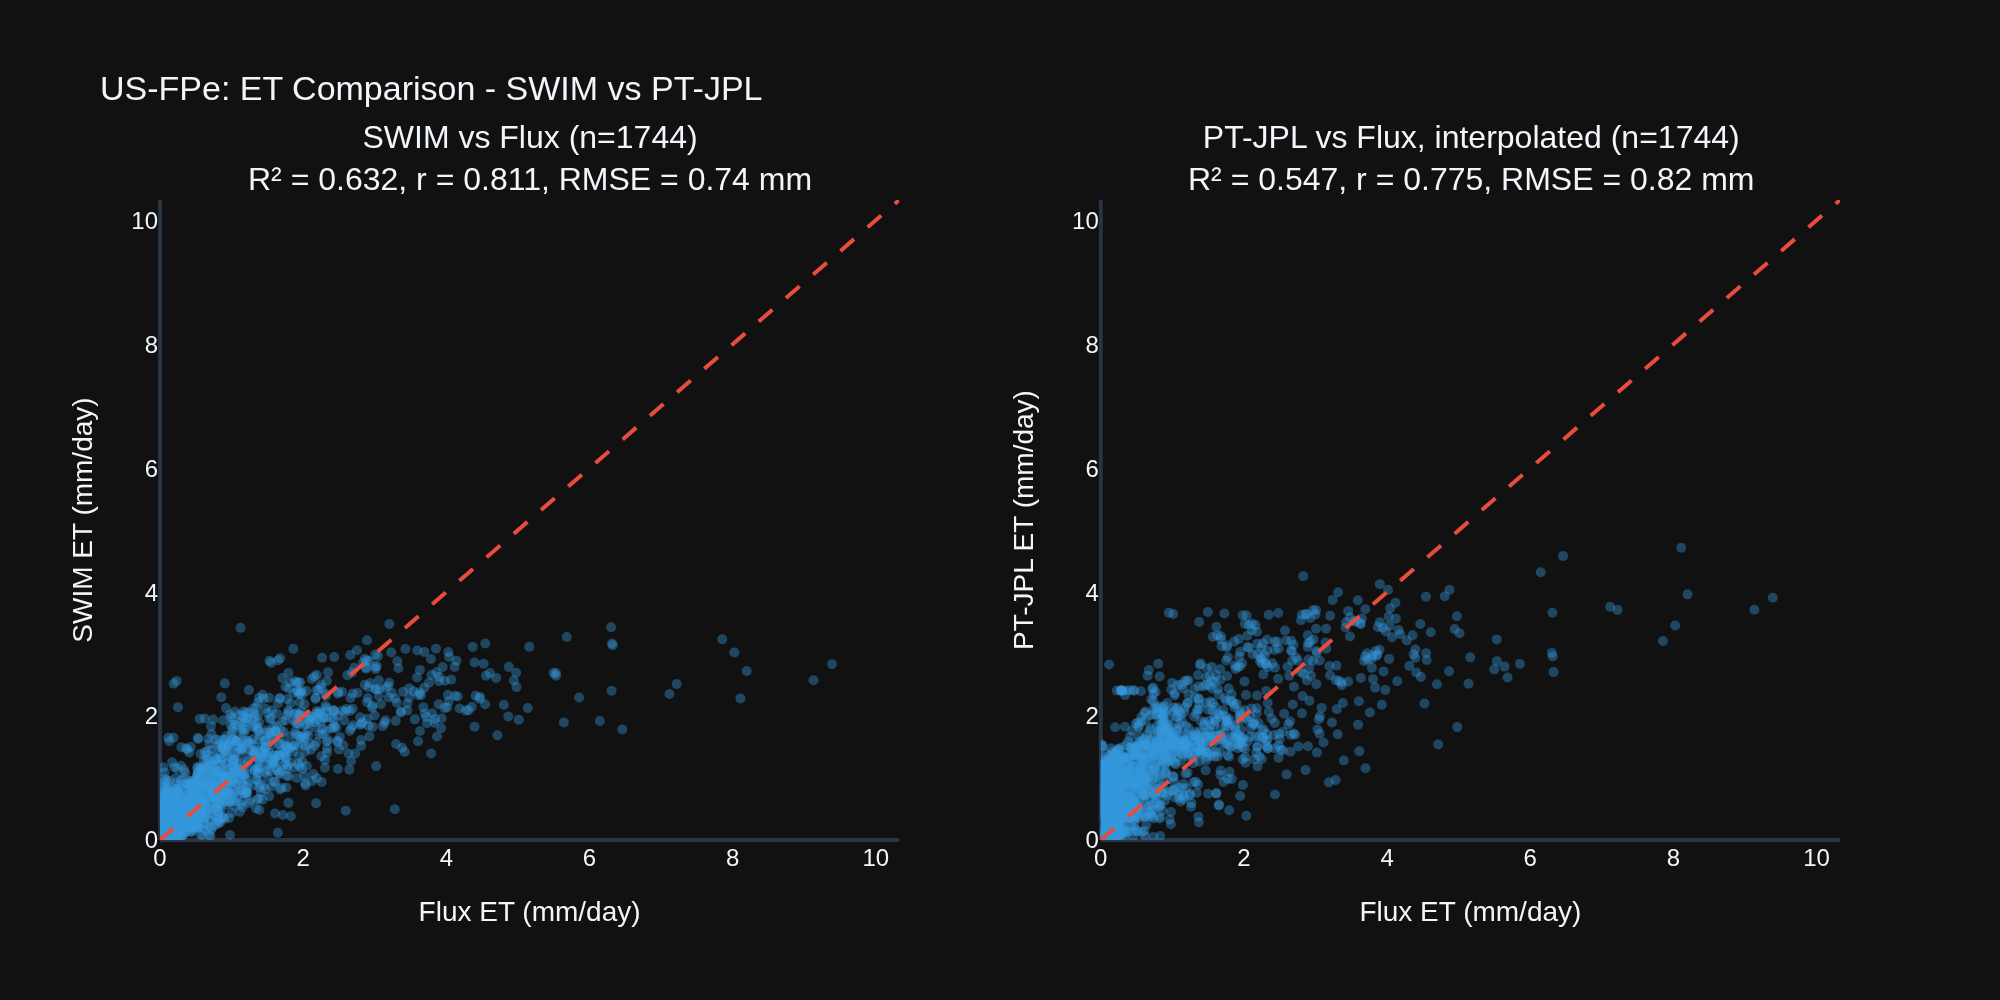
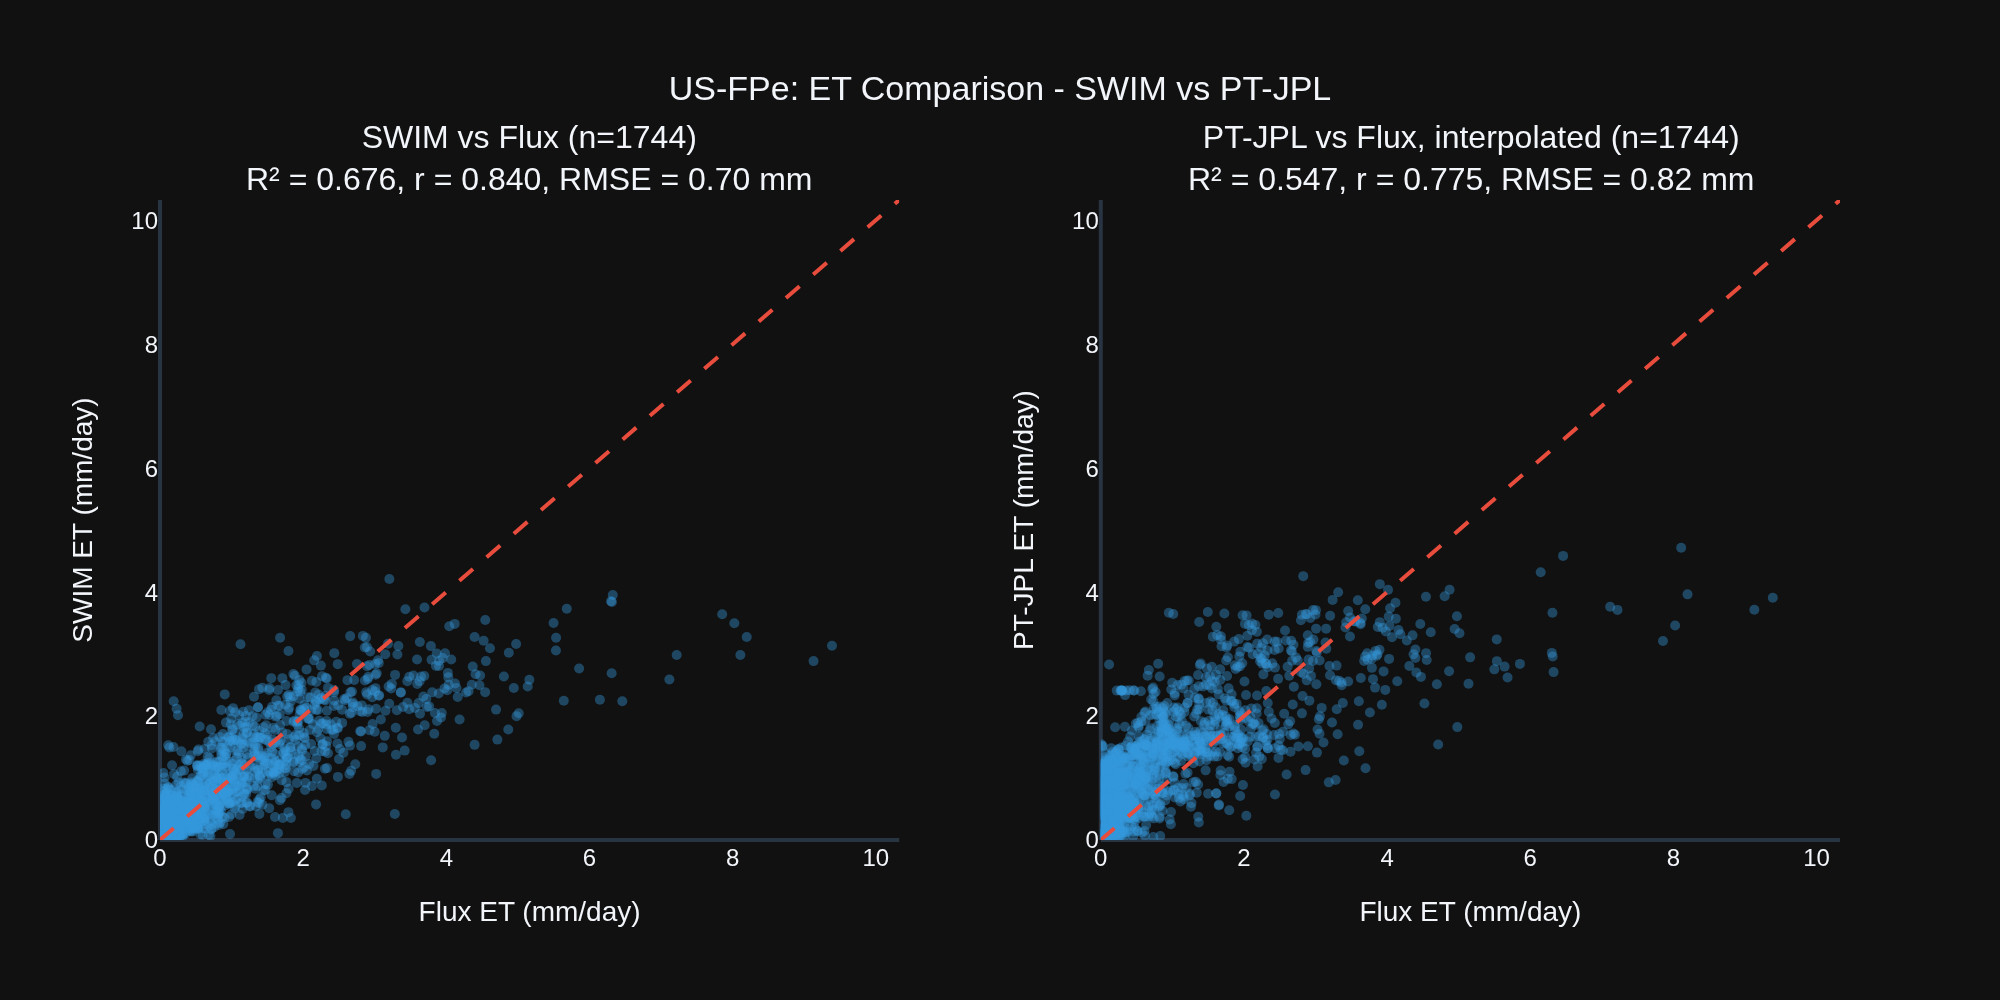
Update README.md and docs with new fig, Python version, etc.

diff --git a/README.md b/README.md
@@ -1,5 +1,8 @@
 # SWIM-RS
 
+[![CI](https://github.com/dgketchum/swim-rs/actions/workflows/ci.yml/badge.svg)](https://github.com/dgketchum/swim-rs/actions/workflows/ci.yml)
+[![Coverage](https://codecov.io/gh/dgketchum/swim-rs/branch/main/graph/badge.svg)](https://codecov.io/gh/dgketchum/swim-rs)
+
 **S**oil **W**ater balance **I**nverse **M**odeling using **R**emote **S**ensing
 
 SWIM-RS combines the desirable qualities of remote sensing and hydrological modeling into an easy-to-use, rigorous
@@ -10,7 +13,7 @@ packaged into easy-to-manage containers with provenance and coverage checks.
 The process engine uses numba-accelerated FAO-56 kernels; calibration is field-level via PEST++ IES (ensemble ETf optional). 
 A 40-year run on a single field completes in under a second; shipped examples run end-to-end with a few commands.
 
-**Modern workflow (container-first)**
+**The Workflow**
 
 ```
 swim extract (EE + met) → swim prep (build .swim container) → build_swim_input (HDF5) → run_daily_loop / calibrate
@@ -29,12 +32,24 @@ flowchart LR
 
 See the [Installation Guide](docs/installation.md) for detailed setup instructions including conda, PEST++, and Earth Engine authentication.
 
-**Quick install** (assumes conda and Python 3.11+):
+**Quick install** (assumes conda and Python 3.13):
 ```bash
-conda create -n swim python=3.11 -y && conda activate swim
+conda create -n swim python=3.13 -y && conda activate swim
 conda install -c conda-forge pestpp geopandas rasterio -y
 pip install git+https://github.com/dgketchum/swim-rs.git
 ```
+
+## Testing
+
+```bash
+pip install -e ".[dev]"
+pytest
+
+# Coverage (line + branch)
+pytest --cov=swimrs --cov-branch --cov-report=term-missing
+```
+
+By default, tests requiring Earth Engine auth are skipped; run them with `pytest --run-ee`.
 
 ## Quick start (Fort Peck, Montana)
 
@@ -67,9 +82,9 @@ Outputs:
 <img src="https://raw.githubusercontent.com/dgketchum/swim-rs/reform-data-container/docs/images/US-FPe_scatter.png" alt="SWIM vs PT-JPL comparison" width="600">
 <!--/img-placeholder-->
 
-SWIM-RS uses remote sensing ET to calibrate a process-based model rather than drive it directly — the result is daily ET 
-estimates that outperform the satellite retrievals they were trained on. Here, SWIM-RS, *itself calibrated on PT-JPL*, achieves 
-R² = 0.63 vs PT-JPL's 0.55 against flux tower observations, a 10% improvement in the estimate of water use.
+SWIM-RS uses remote sensing ET to calibrate a process-based model rather than drive it directly — the result is daily ET
+estimates that outperform the satellite retrievals they were trained on. Here, SWIM-RS, *itself calibrated on PT-JPL*, achieves
+R² = 0.68 vs PT-JPL's 0.55 against flux tower observations, a 24% improvement in explained variance.
 
 Further, we automatically get estimates of snow accumulation and melt, groundwater recharge, runoff, and consumption of 
 irrigation-applied water (in cases where irrigation is detected, see Example 3 - Crane, OR).

diff --git a/docs/installation.md b/docs/installation.md
@@ -4,7 +4,7 @@ This guide walks through setting up SWIM-RS from scratch, including dependencies
 
 ## Prerequisites
 
-- **Python 3.11+** (required)
+- **Python 3.13** (required)
 - **conda** (recommended; see [Non-Conda Installation](#non-conda-installation) below for alternatives)
 - **Git** (for installing from source)
 
@@ -71,7 +71,7 @@ After installation:
 Create a dedicated environment for SWIM-RS. These commands work the same on Windows (Anaconda Prompt), macOS, and Linux:
 
 ```bash
-conda create -n swim python=3.11 -y
+conda create -n swim python=3.13 -y
 conda activate swim
 ```
 
@@ -155,7 +155,7 @@ If you prefer not to use conda, you can install SWIM-RS with pip and download PE
 
 **Linux/macOS:**
 ```bash
-python3.11 -m venv ~/.venvs/swim
+python3.13 -m venv ~/.venvs/swim
 source ~/.venvs/swim/bin/activate
 ```
 
@@ -265,7 +265,7 @@ python -c "import geopandas; print('geopandas OK')"
 
 ```bash
 #!/bin/bash
-conda create -n swim python=3.11 -y && conda activate swim
+conda create -n swim python=3.13 -y && conda activate swim
 conda install -c conda-forge pestpp geopandas rasterio pyproj fiona shapely -y
 git clone https://github.com/dgketchum/swim-rs.git && cd swim-rs
 pip install -e .
@@ -275,7 +275,7 @@ swim --help && pestpp-ies --version
 ### Conda (Windows — Anaconda Prompt)
 
 ```batch
-conda create -n swim python=3.11 -y && conda activate swim
+conda create -n swim python=3.13 -y && conda activate swim
 conda install -c conda-forge pestpp geopandas rasterio pyproj fiona shapely -y
 git clone https://github.com/dgketchum/swim-rs.git && cd swim-rs
 pip install -e .
@@ -286,7 +286,7 @@ swim --help && pestpp-ies --version
 
 ```bash
 #!/bin/bash
-python3.11 -m venv ~/.venvs/swim && source ~/.venvs/swim/bin/activate
+python3.13 -m venv ~/.venvs/swim && source ~/.venvs/swim/bin/activate
 pip install --upgrade pip
 
 # Install GDAL system library first (Ubuntu: sudo apt-get install gdal-bin libgdal-dev)
@@ -378,7 +378,7 @@ channels:
   - conda-forge
   - defaults
 dependencies:
-  - python=3.11
+  - python=3.13
   - pestpp
   - geopandas
   - rasterio
